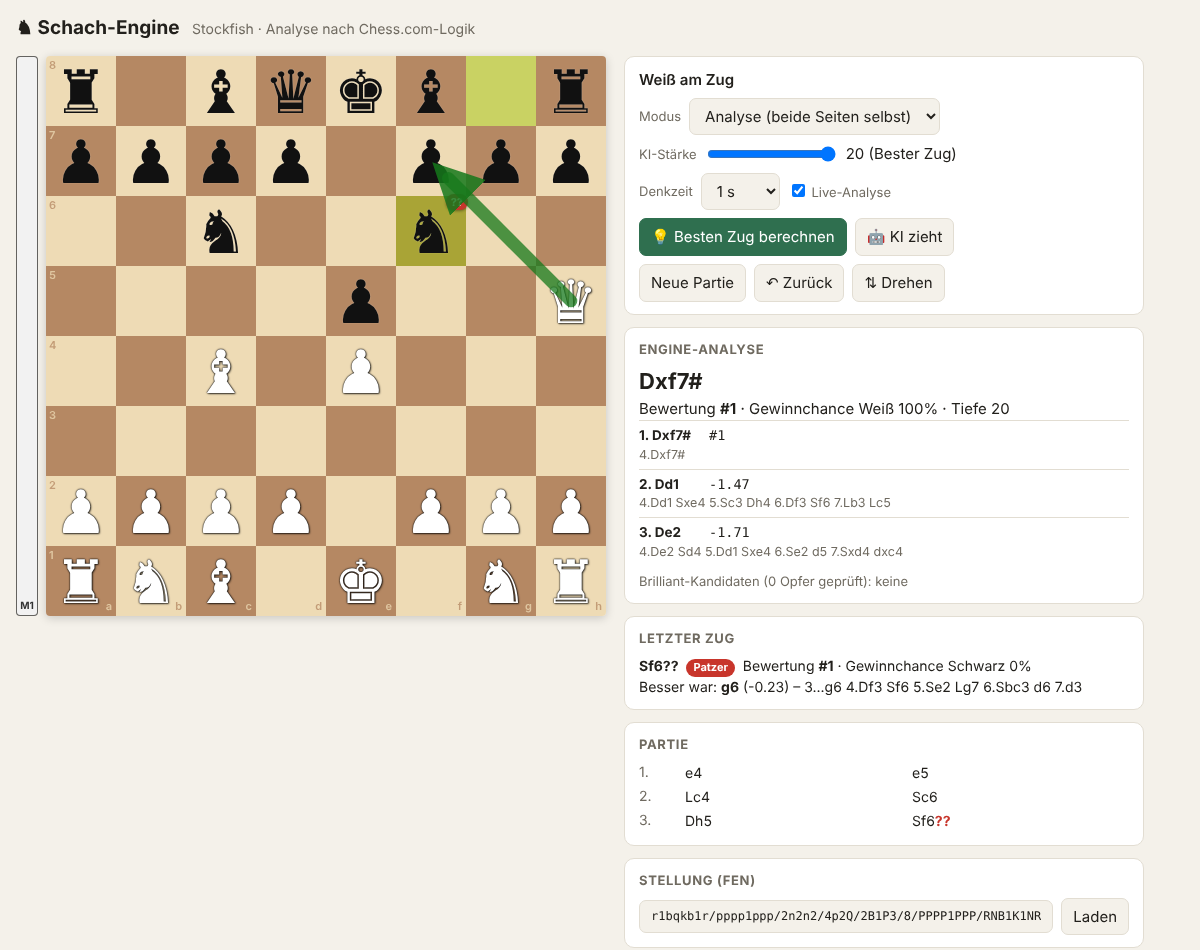
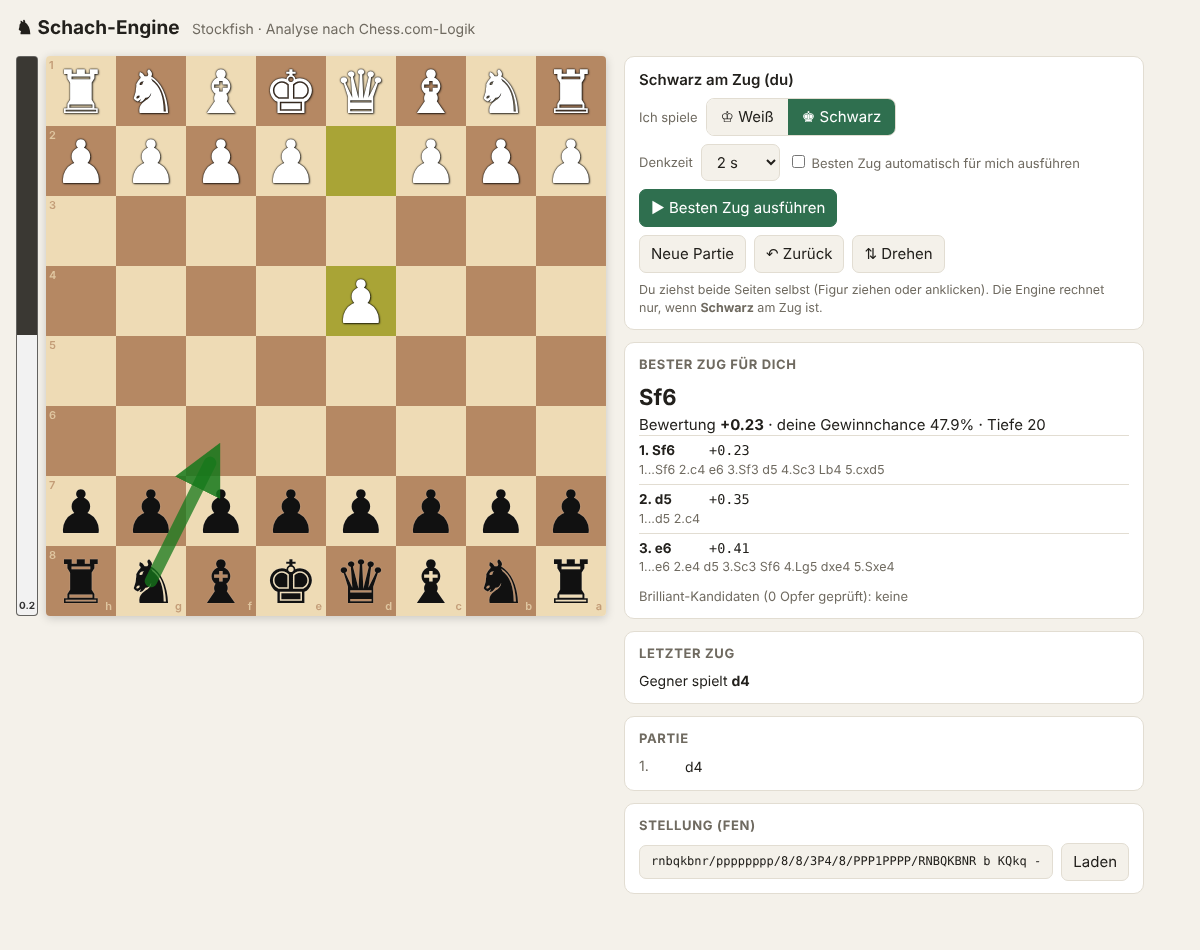
Beide Seiten frei bewegen, Engine rechnet nur für die gewählte Seite
Drag & Drop, Seitenwahl Weiß/Schwarz, Besten Zug ausführen (manuell oder automatisch).

Claude-Session: https://claude.ai/code/session_014vzRoQwLCzVhe7tUwuu6nK

diff --git a/static/index.html b/static/index.html
@@ -62,6 +62,16 @@ label{color:var(--mute);font-size:13px}
 #moves .m{padding:1px 4px;border-radius:4px;cursor:default}
 #review{font-size:14px;min-height:20px}
 .err{color:var(--blun)}
+.seg{display:inline-flex;border:1px solid var(--line);border-radius:8px;overflow:hidden}
+.seg button{font:inherit;padding:7px 14px;border:0;background:var(--bg);color:var(--ink);cursor:pointer}
+.seg button.on{background:var(--accent);color:#fff}
+.hint{font-size:12.5px;color:var(--mute)}
+.wait{color:var(--mute)}
+.sq .p.dragging{opacity:.25}
+#ghost{position:fixed;pointer-events:none;z-index:50;font-size:min(9.5vw,60px);line-height:1;transform:translate(-50%,-50%);display:none}
+#ghost.w{color:#fff;text-shadow:0 0 2px #000,0 0 1px #000,1px 1px 3px rgba(0,0,0,.6)}
+#ghost.b{color:#111;text-shadow:0 0 1px #fff8}
+#board{touch-action:none}
 </style>
 </head>
 <body>
@@ -71,41 +81,36 @@ label{color:var(--mute);font-size:13px}
     <div class="boardwrap">
       <div class="evalbar" id="evalbar"><div class="b" id="evb" style="height:50%"></div><div class="w"></div><div class="t" id="evt" style="bottom:2px;color:#333">0.0</div></div>
       <div id="board"><svg id="arrows" viewBox="0 0 800 800"></svg><div id="promo"></div></div>
+      <div id="ghost"></div>
     </div>
   </div>
   <aside>
     <div class="card">
       <div class="row"><span id="status">Weiß am Zug</span><span id="thinking">⏳ Engine rechnet …</span></div>
       <div class="row">
-        <label>Modus</label>
-        <select id="mode">
-          <option value="w">Ich spiele Weiß gegen KI</option>
-          <option value="b">Ich spiele Schwarz gegen KI</option>
-          <option value="none">Analyse (beide Seiten selbst)</option>
-          <option value="ai">KI gegen KI</option>
-        </select>
-      </div>
-      <div class="row">
-        <label>KI-Stärke</label><input type="range" id="level" min="0" max="20" value="20"><span id="levelv">20 (Bester Zug)</span>
+        <label>Ich spiele</label>
+        <div class="seg" id="side">
+          <button data-c="w" class="on">♔ Weiß</button><button data-c="b">♚ Schwarz</button>
+        </div>
       </div>
       <div class="row">
         <label>Denkzeit</label>
-        <select id="time"><option value="0.5">0,5 s</option><option value="1" selected>1 s</option><option value="2">2 s</option><option value="3">3 s</option><option value="5">5 s</option></select>
-        <label><input type="checkbox" id="autoAna" checked> Live-Analyse</label>
+        <select id="time"><option value="0.5">0,5 s</option><option value="1">1 s</option><option value="2" selected>2 s</option><option value="3">3 s</option><option value="5">5 s</option></select>
+        <label><input type="checkbox" id="autoPlay"> Besten Zug automatisch für mich ausführen</label>
       </div>
       <div class="row">
-        <button class="b primary" id="bestBtn">💡 Besten Zug berechnen</button>
-        <button class="b" id="aiBtn">🤖 KI zieht</button>
+        <button class="b primary" id="playBest" disabled>▶ Besten Zug ausführen</button>
       </div>
       <div class="row">
         <button class="b" id="newBtn">Neue Partie</button>
         <button class="b" id="undoBtn">↶ Zurück</button>
         <button class="b" id="flipBtn">⇅ Drehen</button>
       </div>
+      <div class="hint">Du ziehst beide Seiten selbst (Figur ziehen oder anklicken). Die Engine rechnet nur, wenn <b id="sideName">Weiß</b> am Zug ist.</div>
     </div>
     <div class="card">
-      <h3>Engine-Analyse</h3>
-      <div id="analysis"><span style="color:var(--mute)">Klicke auf „Besten Zug berechnen“.</span></div>
+      <h3>Bester Zug für dich</h3>
+      <div id="analysis"></div>
     </div>
     <div class="card">
       <h3>Letzter Zug</h3>
@@ -132,10 +137,13 @@ const $ = id => document.getElementById(id);
 
 let hist = [];            // [{fen, san, uci, review}]
 let state = null;         // Server-Status der aktuellen Stellung
-let flipped = false, sel = null, busy = false, anaToken = 0, lastBest = null;
+let me = "w";             // meine Farbe
+let flipped = false, sel = null, busy = false, anaToken = 0, lastBest = null, drag = null;
 
 const de = s => s ? s.replace(/[NBRQK]/g, c => ({N:"S",B:"L",R:"T",Q:"D",K:"K"})[c]) : s;
 const fen = () => state ? state.fen : START;
+const sideName = c => c==="w" ? "Weiß" : "Schwarz";
+const myTurn = () => state && !state.game_over && state.turn===me;
 
 async function api(path, body){
   const r = await fetch(path,{method:"POST",headers:{"Content-Type":"application/json"},body:JSON.stringify(body)});
@@ -146,7 +154,7 @@ function parseBoard(f){
   rows.forEach((row,ri)=>{let fi=0;for(const ch of row){ if(/\d/.test(ch)) fi+=+ch; else { b["abcdefgh"[fi]+(8-ri)]=ch; fi++; } }});
   return b;
 }
-function center(sq){ let f="abcdefgh".indexOf(sq[0]), r=+sq[1]-1; const x=flipped?7-f:f, y=flipped?r:7-r; return [x*100+50,y*100+50]; }
+function center(sq){ const f="abcdefgh".indexOf(sq[0]), r=+sq[1]-1; const x=flipped?7-f:f, y=flipped?r:7-r; return [x*100+50,y*100+50]; }
 
 function render(){
   const board=$("board"), pieces=parseBoard(fen());
@@ -158,7 +166,7 @@ function render(){
   for(let y=0;y<8;y++) for(let x=0;x<8;x++){
     const f=flipped?7-x:x, r=flipped?y:7-y, sq="abcdefgh"[f]+(r+1);
     const d=document.createElement("div");
-    d.className="sq "+((f+r)%2? "l":"d");
+    d.className="sq "+((f+r)%2? "l":"d"); d.dataset.sq=sq;
     if(last && (last.uci.slice(0,2)===sq||last.uci.slice(2,4)===sq)) d.classList.add("last");
     if(sel===sq) d.classList.add("sel");
     if(kingSq===sq) d.classList.add("chk");
@@ -170,12 +178,11 @@ function render(){
     if(last && last.review && last.uci.slice(2,4)===sq && last.review.symbol){
       const bd=document.createElement("span"); bd.className="badge"; bd.style.background=COLORS[last.review.label]; bd.textContent=last.review.symbol; d.appendChild(bd);
     }
-    d.onclick=()=>clickSq(sq, p);
     board.insertBefore(d, $("arrows"));
   }
-  drawArrows();
-  renderStatus(); renderMoves();
+  drawArrows(); renderStatus(); renderMoves();
   $("fen").value=fen();
+  $("playBest").disabled = busy || !myTurn() || !lastBest || lastBest.fen!==fen();
 }
 function drawArrows(){
   const svg=$("arrows"); svg.innerHTML=`<defs><marker id="ah" markerWidth="4" markerHeight="4" refX="2.2" refY="2" orient="auto"><path d="M0,0 L4,2 L0,4 z" fill="rgba(21,120,27,.85)"/></marker></defs>`;
@@ -185,17 +192,17 @@ function drawArrows(){
   svg.innerHTML+=`<line x1="${x1}" y1="${y1}" x2="${x1+(x2-x1)*k}" y2="${y1+(y2-y1)*k}" stroke="rgba(21,120,27,.75)" stroke-width="18" stroke-linecap="round" marker-end="url(#ah)"/>`;
 }
 function renderStatus(){
-  const s=$("status");
   if(!state) return;
+  const s=$("status");
   if(state.game_over) s.textContent=`Partie beendet: ${state.result} (${state.reason})`;
-  else s.textContent=(state.turn==="w"?"Weiß":"Schwarz")+" am Zug"+(state.check?" – Schach!":"");
+  else s.textContent=sideName(state.turn)+" am Zug"+(state.check?" – Schach!":"")+(state.turn===me?" (du)":" (Gegner)");
 }
 function renderMoves(){
   const m=$("moves"); m.innerHTML="";
   hist.forEach((h,i)=>{
     if(i%2===0){ const n=document.createElement("span"); n.className="n"; n.textContent=(i/2+1)+"."; m.appendChild(n); }
     const e=document.createElement("span"); e.className="m";
-    const r=h.review; let sym=r&&r.symbol&&r.symbol!=="★"?r.symbol:"";
+    const r=h.review; const sym=r&&r.symbol&&r.symbol!=="★"?r.symbol:"";
     e.innerHTML=de(h.san)+(sym?`<b style="color:${COLORS[r.label]}">${sym}</b>`:"");
     if(r) e.title=LABEL_DE[r.label]+" · "+r.eval;
     m.appendChild(e);
@@ -210,104 +217,130 @@ function setEval(evalStr){
   const t=$("evt"); t.textContent=evalStr.startsWith("#")?"M"+evalStr.replace("#","").replace("-",""):Math.abs(parseFloat(evalStr)).toFixed(1);
   if(wp>=50){t.style.bottom="2px";t.style.top="";t.style.color="#333";} else {t.style.top="2px";t.style.bottom="";t.style.color="#eee";}
 }
-function setBusy(b){ busy=b; $("thinking").style.display=b?"inline":"none"; ["bestBtn","aiBtn","undoBtn","newBtn"].forEach(i=>$(i).disabled=b); }
+function setBusy(b){ busy=b; ["undoBtn","newBtn"].forEach(i=>$(i).disabled=b); render(); }
 
 async function loadState(f){ state=await api("/api/state",{fen:f}); sel=null; render(); }
 
-function humanTurn(){
-  const m=$("mode").value; if(!state || state.game_over) return false;
-  if(m==="none") return true; if(m==="ai") return false; return state.turn===m;
+/* ---------- Figuren bewegen: beide Seiten, per Klick oder Ziehen ---------- */
+const movable = p => p && state && !state.game_over && ((p===p.toUpperCase())===(state.turn==="w"));
+function tryMove(from,to){
+  const cands=state.legal.filter(m=>m.startsWith(from+to));
+  if(cands.length===1){ doMove(cands[0]); return true; }
+  if(cands.length>1){ askPromo(cands); return true; }
+  return false;
 }
-function clickSq(sq,p){
-  if(busy || !humanTurn()) return;
-  if(sel){
-    const cands=state.legal.filter(m=>m.startsWith(sel+sq));
-    if(cands.length===1) return doMove(cands[0]);
-    if(cands.length>1) return askPromo(cands);
-  }
-  const mine = p && ((p===p.toUpperCase())===(state.turn==="w"));
-  sel = mine && sel!==sq ? sq : null; render();
-}
+function sqFromPoint(x,y){ const el=document.elementFromPoint(x,y); const s=el&&el.closest(".sq"); return s?s.dataset.sq:null; }
+$("board").addEventListener("pointerdown",e=>{
+  if(busy || e.button>0) return;
+  const s=e.target.closest(".sq"); if(!s) return;
+  const sq=s.dataset.sq, p=parseBoard(fen())[sq];
+  if(sel && sq!==sel && tryMove(sel,sq)){ sel=null; return; }
+  if(!movable(p)){ sel=null; render(); return; }
+  e.preventDefault();
+  const wasSel = sel===sq; sel=sq; render();
+  const g=$("ghost"); g.textContent=GLYPH[p.toLowerCase()]; g.className=p===p.toUpperCase()?"w":"b";
+  drag={from:sq,wasSel,moved:false,x:e.clientX,y:e.clientY};
+  g.style.left=e.clientX+"px"; g.style.top=e.clientY+"px";
+});
+window.addEventListener("pointermove",e=>{
+  if(!drag) return;
+  if(!drag.moved && Math.hypot(e.clientX-drag.x,e.clientY-drag.y)<5) return;
+  if(!drag.moved){ drag.moved=true; $("ghost").style.display="block";
+    const pe=document.querySelector(`.sq[data-sq="${drag.from}"] .p`); if(pe) pe.classList.add("dragging"); }
+  $("ghost").style.left=e.clientX+"px"; $("ghost").style.top=e.clientY+"px";
+});
+window.addEventListener("pointerup",e=>{
+  if(!drag) return;
+  const d=drag; drag=null; $("ghost").style.display="none";
+  if(d.moved){
+    const to=sqFromPoint(e.clientX,e.clientY);
+    if(to && to!==d.from && tryMove(d.from,to)){ sel=null; return; }
+    render();
+  } else if(d.wasSel){ sel=null; render(); }
+});
 function askPromo(cands){
   const box=$("promo"); box.innerHTML=""; box.style.display="flex";
   ["q","r","b","n"].forEach(pc=>{ const b=document.createElement("button"); b.textContent=GLYPH[pc];
     b.style.color=state.turn==="w"?"#fff":"#111"; b.style.textShadow="0 0 2px #000";
     b.onclick=()=>{box.style.display="none"; doMove(cands.find(c=>c.endsWith(pc)));}; box.appendChild(b); });
 }
+
 async function doMove(uci){
-  sel=null; setBusy(true);
+  sel=null; anaToken++;
+  const mine = state.turn===me;                 // nur eigene Züge werden bewertet (Engine rechnet nur für dich)
+  setBusy(true);
   try{
     const prev=fen();
-    const r=await api("/api/play",{fen:prev,move:uci,time:+$("time").value});
-    hist.push({fen:prev,san:r.san,uci:r.uci,review:r.review}); state=r; render(); showReview(r);
+    const r=await api("/api/play",{fen:prev,move:uci,review:mine,time:Math.min(1,+$("time").value)});
+    hist.push({fen:prev,san:r.san,uci:r.uci,review:r.review}); state=r; showReview(r, mine);
   }catch(e){ $("review").innerHTML=`<span class="err">${e.message}</span>`; }
   setBusy(false); afterMove();
 }
-function showReview(r){
+function showReview(r, mine){
   const v=r.review;
+  if(!mine){ $("review").innerHTML=`Gegner spielt <b>${de(r.san)}</b>`; return; }
   if(!v){ $("review").textContent=de(r.san)+" (einziger legaler Zug)"; return; }
-  let h=`<b>${de(v.move_san)}${v.symbol&&v.symbol!=="★"?v.symbol:""}</b> <span class="tag" style="background:${COLORS[v.label]}">${LABEL_DE[v.label]}</span>
-    &nbsp;Bewertung <b>${v.eval}</b> · Gewinnchance ${v.side} ${v.win_pct}%`;
+  let h=`Du spielst <b>${de(v.move_san)}${v.symbol&&v.symbol!=="★"?v.symbol:""}</b> <span class="tag" style="background:${COLORS[v.label]}">${LABEL_DE[v.label]}</span>
+    &nbsp;Bewertung <b>${v.eval}</b>`;
   if(v.sacrifice_pawns) h+=`<br>Opfer: ${v.sacrificed_piece} (netto ${v.sacrifice_pawns} Bauerneinheiten)`;
   if(["Inaccuracy","Mistake","Blunder","Good","Excellent"].includes(v.label)) h+=`<br>Besser war: <b>${de(v.best_move_san)}</b> (${v.best_eval}) – ${de(v.best_line)}`;
   $("review").innerHTML=h; setEval(v.eval);
 }
-async function aiMove(){
-  if(!state || state.game_over) return;
-  setBusy(true);
-  try{
-    const prev=fen(), lv=+$("level").value;
-    const r=await api("/api/ai",{fen:prev,level:lv,time:+$("time").value});
-    const review = r.info ? {label:r.info.label,symbol:r.info.symbol,eval:r.info.eval} : null;
-    hist.push({fen:prev,san:r.san,uci:r.uci,review}); state=r; render();
-    $("review").innerHTML=`KI spielt <b>${de(r.san)}</b>`+(r.info?` <span class="tag" style="background:${COLORS[r.info.label]}">${LABEL_DE[r.info.label]}</span> · ${r.info.eval}<br><span style="color:var(--mute)">${de(r.info.line)}</span>`:` (Stärke ${lv})`);
-    if(r.info) setEval(r.info.eval);
-  }catch(e){ $("review").innerHTML=`<span class="err">${e.message}</span>`; }
-  setBusy(false); afterMove();
-}
 function afterMove(){
-  const m=$("mode").value;
-  if(state.game_over) return;
-  if(m==="ai" || (m!=="none" && state.turn!==m)) return void setTimeout(aiMove,250);
-  if($("autoAna").checked) analyse();
+  if(!state) return;
+  if(state.game_over){ $("analysis").innerHTML=`<span class="wait">Partie beendet.</span>`; return; }
+  if(myTurn()) analyse();
+  else { lastBest=null; render(); $("analysis").innerHTML=`<span class="wait">Gegner (${sideName(state.turn)}) am Zug – zieh seinen Zug auf dem Brett. Danach rechnet die Engine deinen besten Zug.</span>`; }
 }
 async function analyse(){
-  if(!state || state.game_over) return;
+  if(!myTurn()) return;
   const tok=++anaToken, f=fen();
-  $("analysis").innerHTML=`<span style="color:var(--mute)">Rechne …</span>`;
+  $("thinking").style.display="inline";
+  $("analysis").innerHTML=`<span class="wait">Rechne besten Zug für ${sideName(me)} …</span>`;
   try{
     const r=await api("/api/best",{fen:f,time:+$("time").value,multipv:3});
     if(tok!==anaToken || f!==fen()) return;
     const L=r.lines[0]; lastBest={fen:f,uci:L.move_uci};
     const tag=l=>["Brilliant","Great"].includes(l.label)?`<span class="tag" style="background:${COLORS[l.label]}">${l.symbol} ${LABEL_DE[l.label]}</span>`:"";
     let h=`<div class="best">${de(L.move_san)}${["!!","!"].includes(L.symbol)?L.symbol:""} ${tag(L)}</div>
-      <div>Bewertung <b>${L.eval}</b> · Gewinnchance ${r.side_to_move} ${L.win_pct}% · Tiefe ${L.depth}</div>`;
+      <div>Bewertung <b>${L.eval}</b> · deine Gewinnchance ${L.win_pct}% · Tiefe ${L.depth}</div>`;
     if(L.sacrifice_pawns) h+=`<div>Opfer: ${L.sacrificed_piece} (netto ${L.sacrifice_pawns} BE)</div>`;
     h+=`<div class="lines">`+r.lines.map(l=>`<div><span class="mv">${l.rank}. ${de(l.move_san)}</span><span class="ev">${l.eval}</span>${tag(l)}<span class="pv">${de(l.line)}</span></div>`).join("")+`</div>`;
     const b=r.brilliant_candidates;
     h+=`<div style="margin-top:6px;font-size:13px;color:var(--mute)">Brilliant-Kandidaten (${r.sacrifices_scanned} Opfer geprüft): `+
        (b.length? b.map(x=>`<b style="color:var(--brill)">${de(x.move_san)}!!</b> (${x.eval})`).join(", "):"keine")+`</div>`;
-    $("analysis").innerHTML=h; setEval(L.eval); drawArrows();
+    $("analysis").innerHTML=h; setEval(L.eval); render();
+    if($("autoPlay").checked && myTurn() && fen()===f) setTimeout(()=>{ if(fen()===f && !busy) doMove(L.move_uci); },400);
   }catch(e){ if(tok===anaToken) $("analysis").innerHTML=`<span class="err">${e.message}</span>`; }
+  finally{ if(tok===anaToken) $("thinking").style.display="none"; }
 }
-async function newGame(f){ hist=[]; lastBest=null; anaToken++; $("review").textContent="–"; setEval("+0.00");
-  $("analysis").innerHTML=`<span style="color:var(--mute)">Klicke auf „Besten Zug berechnen“.</span>`;
-  await loadState(f||START); afterMove(); }
+async function newGame(f){
+  hist=[]; lastBest=null; anaToken++; $("review").textContent="–"; setEval("+0.00");
+  await loadState(f||START); afterMove();
+}
+function setSide(c){
+  me=c; flipped = c==="b";
+  document.querySelectorAll("#side button").forEach(b=>b.classList.toggle("on",b.dataset.c===c));
+  $("sideName").textContent=sideName(c);
+}
 
-$("bestBtn").onclick=analyse;
-$("aiBtn").onclick=aiMove;
+document.querySelectorAll("#side button").forEach(b=>b.onclick=()=>{
+  if(b.dataset.c===me) return;
+  if(hist.length && !confirm("Seite wechseln und neue Partie starten?")) return;
+  setSide(b.dataset.c); newGame();
+});
+$("playBest").onclick=()=>{ if(lastBest && lastBest.fen===fen() && myTurn()) doMove(lastBest.uci); };
+$("autoPlay").onchange=()=>{ if($("autoPlay").checked && lastBest && lastBest.fen===fen() && myTurn()) doMove(lastBest.uci); };
+$("time").onchange=()=>{ if(myTurn()) analyse(); };
 $("newBtn").onclick=()=>newGame();
 $("flipBtn").onclick=()=>{flipped=!flipped; render();};
 $("undoBtn").onclick=async()=>{
-  if(!hist.length) return; const m=$("mode").value;
-  let n = (m==="w"||m==="b") ? (state.turn===m ? 2 : 1) : 1; n=Math.min(n,hist.length);
-  const back=hist.splice(hist.length-n,n)[0]; anaToken++; lastBest=null; await loadState(back.fen);
-  if($("autoAna").checked) analyse();
+  if(!hist.length) return;
+  const back=hist.pop(); anaToken++; lastBest=null; await loadState(back.fen);
+  $("review").textContent="–"; afterMove();
 };
-$("fenBtn").onclick=async()=>{ try{ $("mode").value="none"; await newGame($("fen").value.trim()); }catch(e){ $("review").innerHTML=`<span class="err">FEN ungültig: ${e.message}</span>`; } };
-$("level").oninput=()=>{ const v=+$("level").value; $("levelv").textContent=v===20?"20 (Bester Zug)":v; };
-$("mode").onchange=()=>{ const m=$("mode").value; if(m==="b"&&!flipped||m==="w"&&flipped){flipped=m==="b";} render(); afterMove(); };
-newGame();
+$("fenBtn").onclick=async()=>{ try{ await newGame($("fen").value.trim()); }catch(e){ $("review").innerHTML=`<span class="err">FEN ungültig: ${e.message}</span>`; } };
+setSide("w"); newGame();
 </script>
 </body>
 </html>

diff --git a/README.md b/README.md
@@ -7,16 +7,17 @@ Brilliant-Erkennung (!!) sowie Zugbewertung wie im Chess.com-Review (Brillant, G
 ## Start
 
 ```bash
-bash setup.sh          # installiert Stockfish + python-chess, falls nötig
+sudo apt-get install -y stockfish   # python-chess liegt schon im Ordner chess/
 python3 server.py      # danach http://localhost:8000 öffnen
 ```
 
 ## Funktionen
-- Modi: gegen die KI als Weiß oder Schwarz, Analyse (beide Seiten selbst), KI gegen KI
-- KI-Stärke 0–20 (20 = immer der beste Zug laut Engine-Analyse)
-- „Besten Zug berechnen“: Pfeil auf dem Brett, Bewertung, Hauptvarianten, Brilliant-Kandidaten
-- Jeder Zug wird klassifiziert, mit „Besser war …“ bei Fehlern
-- Eval-Balken, Zugliste in deutscher Notation, Zug zurück, Brett drehen, FEN laden
+- Am Anfang wählst du deine Seite (Weiß oder Schwarz), das Brett dreht sich passend.
+- Du bewegst **beide Seiten selbst** (Figur ziehen oder anklicken), z. B. um eine laufende Partie nachzuspielen.
+- Die Engine rechnet **nur, wenn deine Seite am Zug ist**: Pfeil auf dem Brett, Bewertung, Top-3-Varianten, Brilliant-Kandidaten.
+- „Besten Zug ausführen“ spielt ihn für dich, oder automatisch per Häkchen.
+- Deine Züge werden klassifiziert (Brillant … Patzer), mit „Besser war …“ bei Fehlern.
+- Eval-Balken, Zugliste in deutscher Notation, Zug zurück, Brett drehen, FEN laden.
 
 ## Dateien
 - `server.py` – Webserver + API (`/api/best`, `/api/play`, `/api/ai`, `/api/state`)
